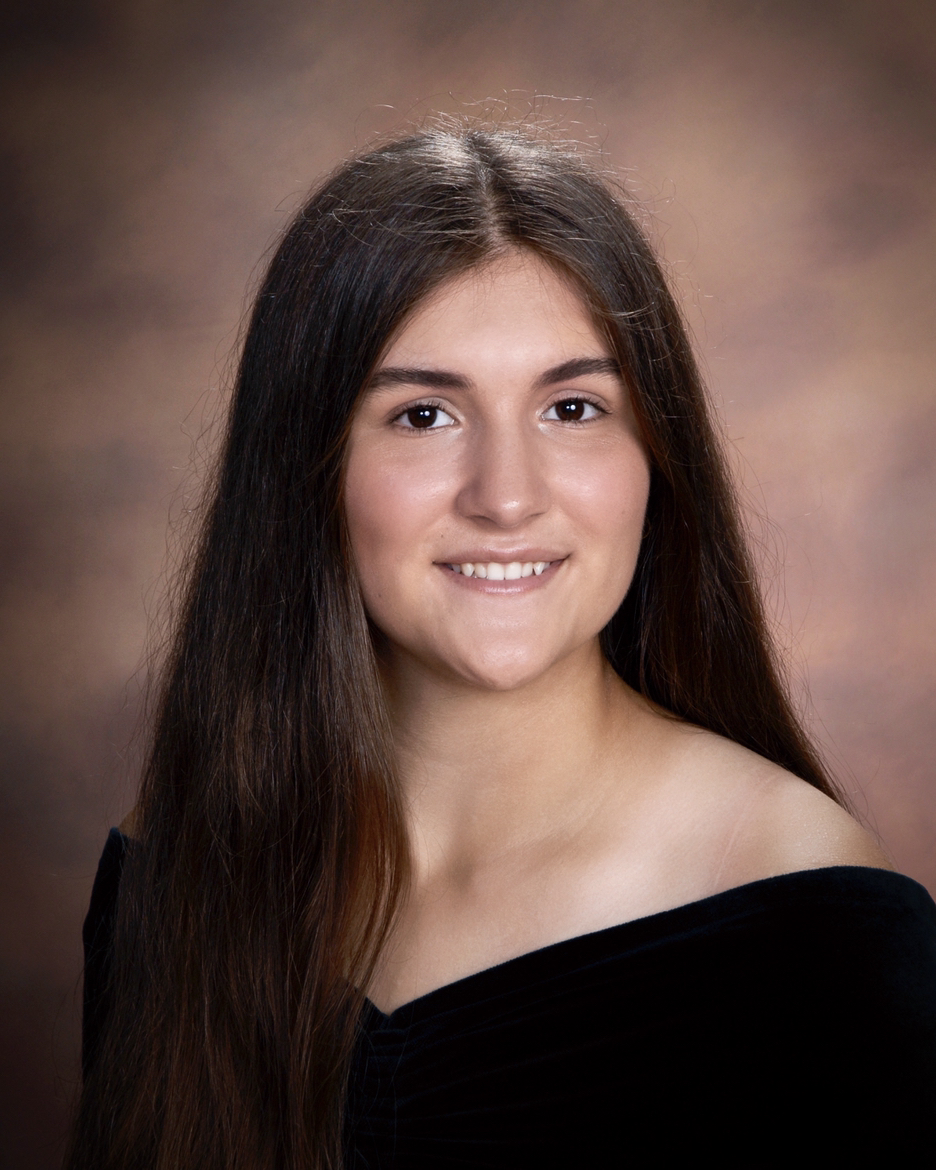
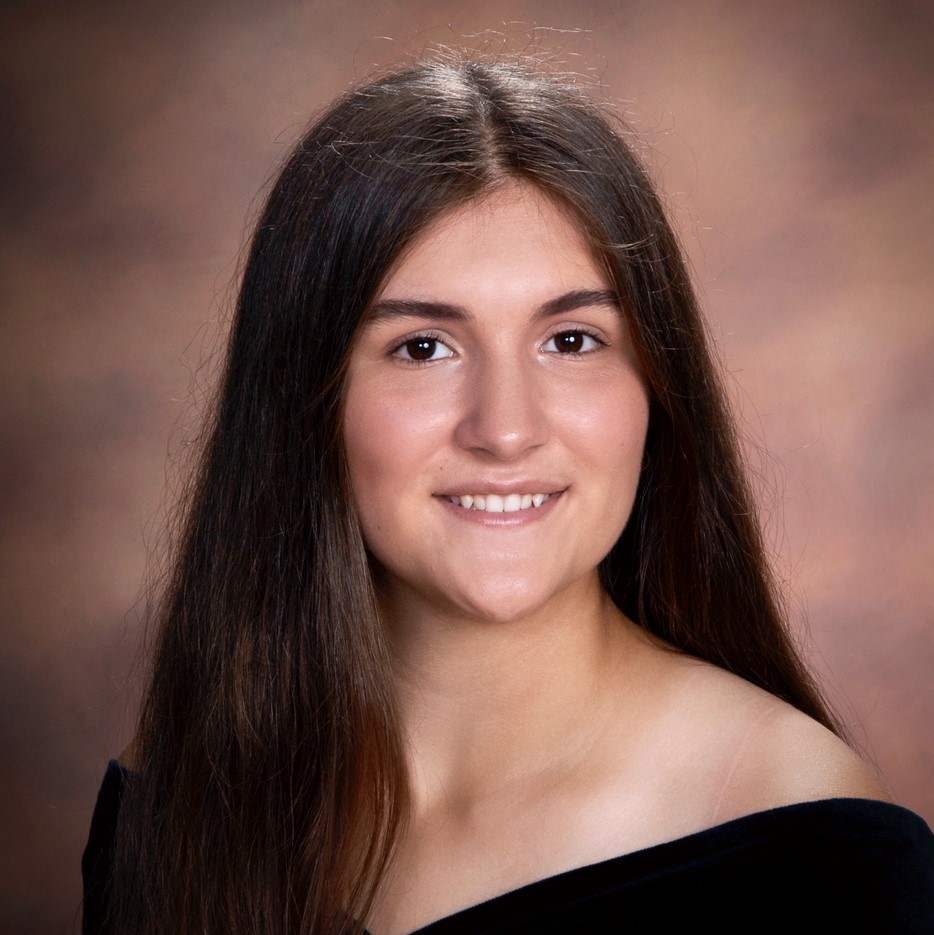
Add files via upload

diff --git a/src/components/AboutUs.jsx b/src/components/AboutUs.jsx
@@ -1,12 +1,12 @@
 import React from 'react';
 import jenna from '../assets/images/jenna.jpeg';
 import daniella from '../assets/images/daniella.jpeg';
-import hannah from '../assets/images/default.jpeg';
-import papa from '../assets/images/default.jpeg';
-import jiSoo from '../assets/images/default.jpeg';
-import adrian from '../assets/images/default.jpeg';
-import carl from '../assets/images/default.jpeg';
-import abigail from '../assets/images/default.jpeg';
+import hannah from '../assets/images/hannah.jpeg';
+import papa from '../assets/images/papa.jpeg';
+import jiSoo from '../assets/images/jisoo.jpeg';
+import adrian from '../assets/images/adrian.png';
+import carl from '../assets/images/carl.jpeg';
+import abigail from '../assets/images/abigail.jpeg';
 
 export class AboutUs extends React.Component {
     render() {
@@ -14,28 +14,20 @@ export class AboutUs extends React.Component {
             <div id='aboutDiv'>
                 <div>
                     <div>
-                        <h1>About Us</h1>
+                        <h1 id="aboutUsTitle">About Us</h1>
                     </div>
                     <div>
                         <p>The Brown and White Tech and Innovation team is a Lehigh University student organization centered around open data, which is data that everyone can access. Our mission is to make sure the datasets we compile are accessible to all members of the community. These datasets provide information that ranges from university tuition to student life statistics. We also collect data by acquiring statistics from Lehigh students, and compile and analyze the data so that it can be easily understood by the general public. This student-run group works with Lehigh University’s journalism department, the Brown and White, in order to ensure that all of the data published are accurate and accessible.</p>
                     </div>
                 </div>
                 <div>
+                    <h1 id="directoryTitle">Team Members</h1>
+                </div>
+                <div id='directoryDiv'>
                     <div>
-                        <h1>Team Members</h1>
-                    </div>
-                    <div id='directoryDiv'>
                         <div>
                             <div>
-                                <img src={hannah} />
-                            </div>
-                            <div>
-                                <h2>Hannah Leland, 2022</h2>
-                            </div>
-                        </div>
-                        <div>
-                            <div>
-                                <img src={jenna} />
+                                <img alt='jenna' src={jenna} />
                             </div>
                             <div>
                                 <h2>Jenna Simon, 2022</h2>
@@ -43,23 +35,7 @@ export class AboutUs extends React.Component {
                         </div>
                         <div>
                             <div>
-                                <img src={jiSoo} />
-                            </div>
-                            <div>
-                                <h2>JiSoo Park, 2023</h2>
-                            </div>
-                        </div>
-                        <div>
-                            <div>
-                                <img src={papa} />
-                            </div>
-                            <div>
-                                <h2>Papa Kofi Asibuo, 2024</h2>
-                            </div>
-                        </div>
-                        <div>
-                            <div>
-                                <img src={adrian} />
+                                <img alt='adrian' src={adrian} />
                             </div>
                             <div>
                                 <h2>Adrian Ross, 2024</h2>
@@ -67,7 +43,41 @@ export class AboutUs extends React.Component {
                         </div>
                         <div>
                             <div>
-                                <img src={carl} />
+                                <img alt='papa' src={papa} />
+                            </div>
+                            <div>
+                                <h2>Papa Kofi Asibuo, 2024</h2>
+                            </div>
+                        </div>
+                        <div>
+                            <div>
+                                <img alt='daniella' src={daniella} />
+                            </div>
+                            <div>
+                                <h2>Daniella Stokic, 2025</h2>
+                            </div>
+                        </div>
+                    </div>
+                    <div>
+                        <div>
+                            <div>
+                                <img alt='hannah' src={hannah} />
+                            </div>
+                            <div>
+                                <h2>Hannah Leland, 2022</h2>
+                            </div>
+                        </div>
+                        <div>
+                            <div>
+                                <img alt='jisoo' src={jiSoo} />
+                            </div>
+                            <div>
+                                <h2>JiSoo Park, 2023</h2>
+                            </div>
+                        </div>
+                        <div>
+                            <div>
+                                <img alt='carl' src={carl} />
                             </div>
                             <div>
                                 <h2>Carl Freyer, 2025</h2>
@@ -75,15 +85,7 @@ export class AboutUs extends React.Component {
                         </div>
                         <div>
                             <div>
-                                <img src={daniella} />
-                            </div>
-                            <div>
-                                <h2>Daniella Stokic, 2025</h2>
-                            </div>
-                        </div>
-                        <div>
-                            <div>
-                                <img src={abigail} />
+                                <img alt='abigail' src={abigail} />
                             </div>
                             <div>
                                 <h2>Abigail Vogel, 2025</h2>

diff --git a/src/components/NavBar.jsx b/src/components/NavBar.jsx
@@ -1,25 +1,30 @@
 import React from 'react';
-import Navbar from 'react-bootstrap/Navbar';
-import Nav from 'react-bootstrap/Nav';
 import '../index.css';
+import NavDropdown from 'react-bootstrap/NavDropdown';
+import logo from '../assets/images/Logo.png'
 
-export class NavBar extends React.Component {
+export default class NavBar extends React.Component {
 
     render() {
 
         return (
             <div id="nav">
-                <Navbar className='navbar'>
-                <Navbar.Brand href="/">
-                    <img alt='LOPD' src={process.env.PUBLIC_URL + '/Logo.png'} />
-                </Navbar.Brand>
-                <Navbar.Collapse>
-                    <Nav>
-                    <Nav.Link id="link" className="brown-text" href="/aboutus">About Us</Nav.Link>
-                    <Nav.Link id="link" className="brown-text" href="/contribute">Contribute a Dataset</Nav.Link>
-                    </Nav>
-                </Navbar.Collapse>
-                </Navbar>
+                <div className='navbar'>
+                <div>
+                    <a href="/">
+                        <img alt='LOPD' src={logo} />
+                    </a>
+                </div>
+                <ul>
+                    <li id="link"><a className="brown-text" href="/aboutus">About Us</a></li>
+                    <li id="link"><a className="brown-text" href="/contribute">Contribute a Dataset</a></li>
+                    <li>
+                    <NavDropdown id="link" className="brown-text" title="Related Links ▼">
+                            <NavDropdown.Item id="dropdown" className="brown-text" href="https://opendatacampus.com/" target="_blank">Open Data Handbook</NavDropdown.Item>
+                    </NavDropdown>
+                    </li>
+                </ul>
+                </div>
                 {/* <div className='line dark-brown'></div> */}
             </div>
         );

diff --git a/src/index.css b/src/index.css
@@ -55,13 +55,29 @@ Nav {
   padding: 10px;
 }
 
+.navbar ul {
+    display: flex;
+    list-style-type: none;
+    align-items: center;
+}
+
+.navbar ul a {
+    text-decoration: none;
+    font-weight: bold;
+}
+
+.navbar ul a:hover {
+    cursor: pointer;
+    text-decoration: underline;
+}
+
 .nav-link {
   text-decoration: none;
   font-size: 20px;
 }
 
 #link {
-  padding-right: 15px;
+  padding-right: 50px;
   padding-left: 20px;
 }
 
@@ -71,6 +87,21 @@ Nav {
 
 .line {
   height: 0.5px;
+}
+
+#nav ul * {
+  color: rgb(99, 52, 2);
+  font-size: 20px;
+}
+
+#dropdown {
+  position: relative;
+  background-color: white;
+  border: 2px solid rgb(99, 52, 2);
+  padding: 10px;
+  margin-right: 17px;
+  top: 34px;
+  width: 250px;
 }
 
 /* FOOTER */
@@ -116,8 +147,13 @@ Nav {
   align-items: center;
   flex-direction: column;
 }
-#aboutDiv h1{
+#aboutUsTitle{
+  text-align: left;
+  color: rgb(99, 52, 2);
+}
+#directoryTitle{
   text-align: center;
+  color: rgb(99, 52, 2);
 }
 #aboutDiv h2{
   text-align: center;
@@ -125,13 +161,20 @@ Nav {
 }
 #directoryDiv{
   text-align: center;
+  flex-direction: row;
   display:  flex;
   flex-wrap: wrap;
   align-items: center;
   justify-content: center;
 
 }
+#directoryDiv div div{
+  display: inline-block;
+}
+#directoryDiv div div div{
+  display: block;
+}
 #directoryDiv img{
   height: 300px;
-  width: 220px;
+  width: 300px;
 }

diff --git a/src/components/searchResult.js b/src/components/searchResult.js
@@ -1,0 +1,40 @@
+import React, { Component } from 'react';
+import './index.css';
+/**
+ * Each search result component should have a :
+ * Category 
+ * Title
+ * File type 
+ * Description
+ * Dataset creation date
+ * Data source
+ */
+//a bar and llook at styling of north western
+import ReactDOM from 'react-dom';
+
+//import 'bootstrap/dist/css/bootstrap.min.css';
+// import Button from 'react-bootstrap/Button';
+
+//export const result = props =>{ //Exporting the search result component
+
+//}
+
+class searchResult extends React.Component{
+    render(){
+        return (
+            <div className="wrapper">
+                <h1>Title: {this.props.title}</h1>
+                <h3>File Type: {this.props.fileType}</h3>
+                <p>Description: {this.props.description}</p>
+                <p>Created on: {this.props.date}</p>
+                <h4>Data Source: {this.props.dataSource}</h4>
+
+            </div>
+       
+
+        );
+        
+    }
+}
+
+export default searchResult;

diff --git a/src/App.js b/src/App.js
@@ -1,13 +1,14 @@
 import React, { Component } from 'react';
 import './index.css';
 
-import { NavBar } from './components/NavBar.jsx';
+import NavBar from './components/NavBar.jsx';
 import { HomePage } from './components/HomePage.jsx';
 import { DatasetInfo } from './components/DatasetInfo.jsx';
 import { AddDataset } from './components/AddDataset.jsx';
 import { AboutUs } from './components/AboutUs.jsx';
 import { Footer } from './components/Footer.jsx';
 import { NotFound } from './components/NotFound.jsx';
+import banner from './assets/images/banner.jpg';
 
 class App extends Component {
 
@@ -37,7 +38,7 @@ class App extends Component {
     return (
       <div className="wrapper">
         {urlDirect === '/' && 
-        <img className='banner_img' alt='LODP Banner' src={process.env.PUBLIC_URL + '/banner.jpg'} />}
+        <img className='banner_img' alt='LODP Banner' src={banner} />}
         <div className="container">
           <NavBar />
           <div className="content">
